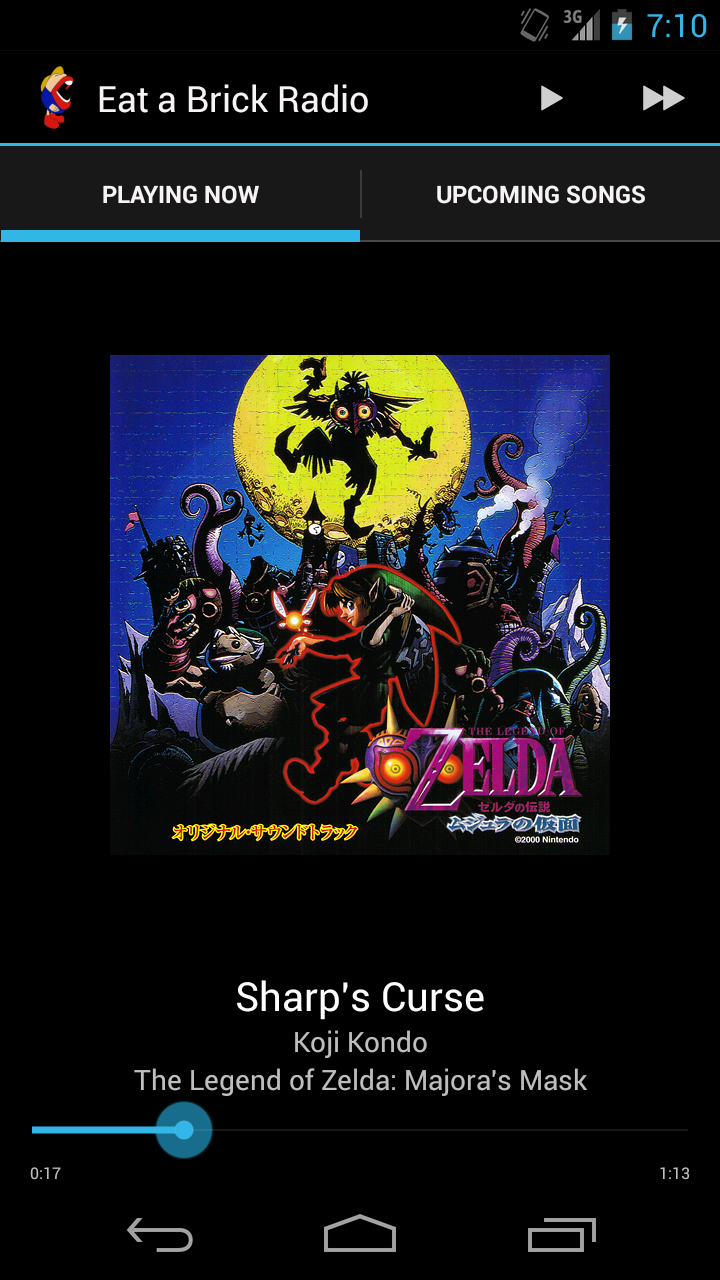
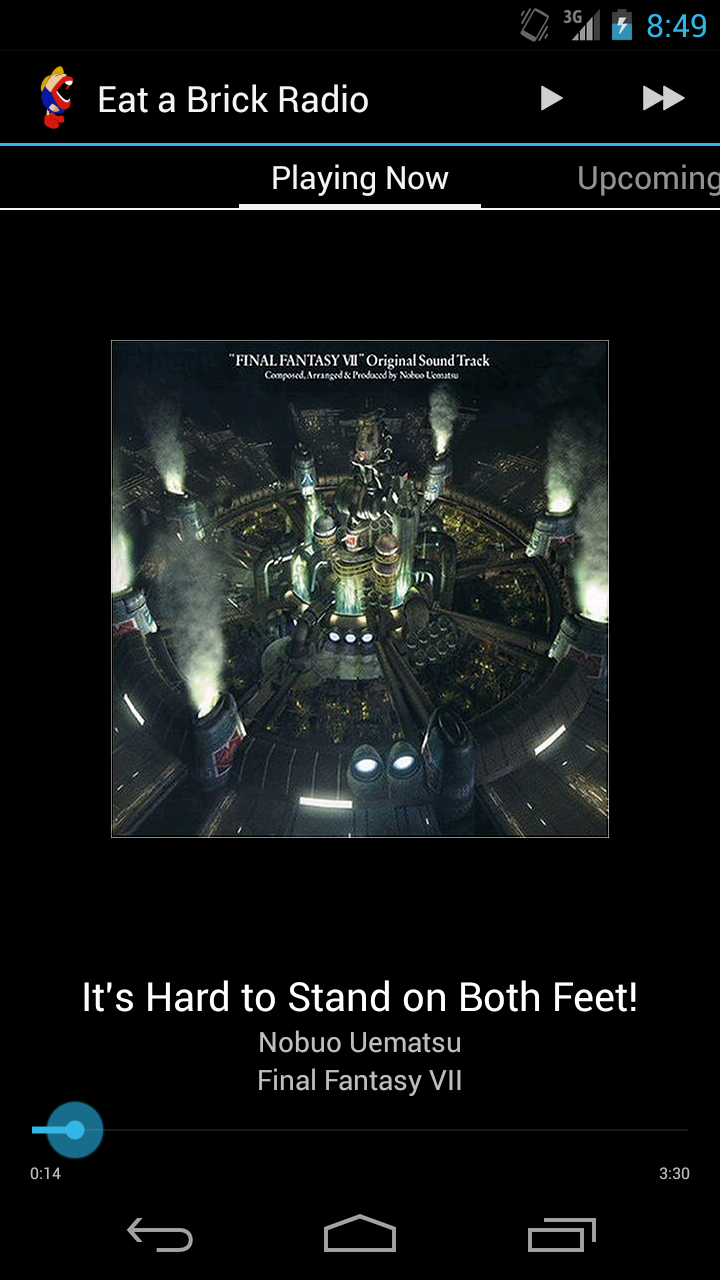
Use swipe thing instead of tabs

diff --git a/src/org/eatabrick/radio/MainActivity.java b/src/org/eatabrick/radio/MainActivity.java
@@ -1,8 +1,5 @@
 package org.eatabrick.radio;
 
-import android.support.v4.app.Fragment;
-import android.support.v4.app.FragmentManager;
-import android.support.v4.app.FragmentTransaction;
 import android.content.ComponentName;
 import android.content.Context;
 import android.content.Intent;
@@ -10,6 +7,10 @@ import android.content.ServiceConnection;
 import android.os.Bundle;
 import android.os.Handler;
 import android.os.IBinder;
+import android.support.v4.app.Fragment;
+import android.support.v4.app.FragmentManager;
+import android.support.v4.app.FragmentTransaction;
+import android.support.v4.view.ViewPager;
 import android.util.Log;
 import com.actionbarsherlock.app.ActionBar;
 import com.actionbarsherlock.app.SherlockFragment;
@@ -18,13 +19,21 @@ import com.actionbarsherlock.view.Menu;
 import com.actionbarsherlock.view.MenuInflater;
 import com.actionbarsherlock.view.MenuItem;
 import java.util.List;
+import java.util.Vector;
 import org.bff.javampd.objects.MPDSong;
 
 public class MainActivity extends SherlockFragmentActivity implements PlayerService.PlayerListener {
   private static final String TAG = "MainActivity";
 
+  public interface UpdateListener {
+    public void onSongUpdate(String title, String artist, String album, int elapsed, int length);
+    public void onPositionUpdate(int elapsed);
+  }
+
   private PlayerService mService;
   private SongListAdapter mAdapter;
+  private PagerAdapter mPagerAdapter;
+  private List<UpdateListener> mListeners;
 
   private ServiceConnection mConnection = new ServiceConnection() {
     public void onServiceConnected(ComponentName className, IBinder binder) {
@@ -32,7 +41,8 @@ public class MainActivity extends SherlockFragmentActivity implements PlayerServ
       mService = ((PlayerService.PlayerBinder) binder).getService();
       mService.addPlayerListener(MainActivity.this);
       invalidateOptionsMenu();
-      requestSongInfo();
+
+      sendSongUpdate(mService.getTitle(), mService.getArtist(), mService.getAlbum(), mService.getElapsed(), mService.getLength());
     }
 
     public void onServiceDisconnected(ComponentName className) {
@@ -46,32 +56,19 @@ public class MainActivity extends SherlockFragmentActivity implements PlayerServ
   @Override public void onCreate(Bundle savedInstanceState) {
     super.onCreate(savedInstanceState);
 
-    getSupportActionBar().setNavigationMode(ActionBar.NAVIGATION_MODE_TABS);
+    setContentView(R.layout.main);
 
-    ActionBar.Tab tab;
 
-    tab = getSupportActionBar().newTab();
-    tab.setText(getString(R.string.tab_now_playing));
-    tab.setTabListener(new TabListener<NowPlayingFragment> (this, "playing", NowPlayingFragment.class));
-    getSupportActionBar().addTab(tab);
+    List<Fragment> fragments = new Vector<Fragment>();
+    fragments.add(Fragment.instantiate(this, NowPlayingFragment.class.getName()));
+    fragments.add(Fragment.instantiate(this, QueueFragment.class.getName()));
 
-    tab = getSupportActionBar().newTab();
-    tab.setText(getString(R.string.tab_play_queue));
-    tab.setTabListener(new TabListener<QueueFragment> (this, "queue", QueueFragment.class));
-    getSupportActionBar().addTab(tab);
+    mPagerAdapter = new PagerAdapter(this, getSupportFragmentManager(), fragments);
 
-    /* not yet implemented
-    tab = getSupportActionBar().newTab();
-    tab.setText(getString(R.string.tab_search));
-    tab.setTabListener(new TabListener<FutureFragment> (this, "search", FutureFragment.class));
-    getSupportActionBar().addTab(tab);
-    */
-
-    if (savedInstanceState != null) {
-      getSupportActionBar().setSelectedNavigationItem(savedInstanceState.getInt("selectedTab"));
-    }
+    ((ViewPager) findViewById(R.id.pager)).setAdapter(mPagerAdapter);
 
     mAdapter = new SongListAdapter(this);
+    mListeners = new Vector<UpdateListener>();
   }
 
   @Override protected void onSaveInstanceState(Bundle outState) {
@@ -130,40 +127,23 @@ public class MainActivity extends SherlockFragmentActivity implements PlayerServ
     return true;
   }
 
-  public void requestSongInfo() {
-    if (mService != null) {
-      NowPlayingFragment playingFragment = (NowPlayingFragment) getSupportFragmentManager().findFragmentByTag("playing");
-      if (playingFragment != null) {
-        playingFragment.updateSongInfo(mService.getTitle(), mService.getArtist(), mService.getAlbum());
-        playingFragment.updateProgress(mService.getElapsed(), mService.getLength());
-      }
-    }
-  }
-
   public void onSongChange(final String title, final String artist, final String album, final int elapsed, final int length) {
-    final NowPlayingFragment playingFragment = (NowPlayingFragment) getSupportFragmentManager().findFragmentByTag("playing");
-    if (playingFragment != null) {
-      runOnUiThread(new Runnable() {
-        public void run() {
-          playingFragment.updateSongInfo(title, artist, album);
-          playingFragment.updateProgress(elapsed, length);
-        }
-      });
-    }
+    runOnUiThread(new Runnable() {
+      public void run() {
+        sendSongUpdate(title, artist, album, elapsed, length);
+      }
+    });
   }
 
   public void onPositionChange(final int elapsed) {
-    final NowPlayingFragment playingFragment = (NowPlayingFragment) getSupportFragmentManager().findFragmentByTag("playing");
-    if (playingFragment != null) {
-      runOnUiThread(new Runnable() {
-        public void run() {
-          playingFragment.updateProgress(elapsed);
-        }
-      });
-    }
+    runOnUiThread(new Runnable() {
+      public void run() {
+        sendPositionUpdate(elapsed);
+      }
+    });
   }
 
-  public void onStatusChange(final boolean playing) {
+  public void onStatusChange(boolean playing) {
     runOnUiThread(new Runnable() {
       public void run() {
         invalidateOptionsMenu();
@@ -188,7 +168,27 @@ public class MainActivity extends SherlockFragmentActivity implements PlayerServ
     return mAdapter;
   }
 
+  public void addUpdateListener(UpdateListener listener) {
+    mListeners.add(listener);
+  }
+
+  public void removeUpdateListener(UpdateListener listener) {
+    mListeners.remove(listener);
+  }
+
   private void setMenuVisible(Menu menu, int menuId, boolean visible) {
     ((MenuItem) menu.findItem(menuId)).setVisible(visible);
+  }
+
+  private void sendSongUpdate(String title, String artist, String album, int elapsed, int length) {
+    for (UpdateListener listener : mListeners) {
+      listener.onSongUpdate(title, artist, album, elapsed, length);
+    }
+  }
+
+  private void sendPositionUpdate(int elapsed) {
+    for (UpdateListener listener : mListeners) {
+      listener.onPositionUpdate(elapsed);
+    }
   }
 }

diff --git a/src/org/eatabrick/radio/NowPlayingFragment.java b/src/org/eatabrick/radio/NowPlayingFragment.java
@@ -29,7 +29,7 @@ import org.xml.sax.SAXException;
 import org.xml.sax.XMLReader;
 import org.xml.sax.helpers.DefaultHandler;
 
-public class NowPlayingFragment extends SherlockFragment {
+public class NowPlayingFragment extends SherlockFragment implements MainActivity.UpdateListener {
   private static final String TAG = "NowPlayingFragment";
 
   private ImageView mArt;
@@ -144,28 +144,33 @@ public class NowPlayingFragment extends SherlockFragment {
     return view;
   }
 
-  @Override public void onActivityCreated(Bundle savedInstanceState) {
-    super.onActivityCreated(savedInstanceState);
+  @Override public void onResume() {
+    super.onResume();
 
-    ((MainActivity) getActivity()).requestSongInfo();
+    ((MainActivity) getActivity()).addUpdateListener(this);
   }
 
-  public void updateSongInfo(String title, String artist, String album) {
+  @Override public void onPause() {
+    super.onPause();
+
+    ((MainActivity) getActivity()).removeUpdateListener(this);
+  }
+
+  public void onSongUpdate(String title, String artist, String album, int elapsed, int length) {
     mTitle.setText(title);
     mArtist.setText(artist);
     mAlbum.setText(album);
 
-    new GetAlbumArtTask().execute(artist, album);
-  }
+    mElapsed.setText(String.format("%d:%02d", elapsed / 60, elapsed % 60));
+    mSeek.setProgress(elapsed);
 
-  public void updateProgress(int elapsed, int length) {
     mLength.setText(String.format("%d:%02d", length / 60, length % 60));
     mSeek.setMax(length);
 
-    updateProgress(elapsed);
+    new GetAlbumArtTask().execute(artist, album);
   }
 
-  public void updateProgress(int elapsed) {
+  public void onPositionUpdate(int elapsed) {
     mElapsed.setText(String.format("%d:%02d", elapsed / 60, elapsed % 60));
     mSeek.setProgress(elapsed);
   }

diff --git a/src/org/eatabrick/radio/PagerAdapter.java b/src/org/eatabrick/radio/PagerAdapter.java
@@ -1,0 +1,41 @@
+package org.eatabrick.radio;
+
+import android.content.Context;
+import android.support.v4.app.Fragment;
+import android.support.v4.app.FragmentManager;
+import android.support.v4.app.FragmentPagerAdapter;
+import android.util.Log;
+import java.util.List;
+
+public class PagerAdapter extends FragmentPagerAdapter {
+  private final static String TAG = "PagerAdapter";
+
+  private Context mContext;
+  private List<Fragment> mFragments;
+
+  public PagerAdapter(Context context, FragmentManager manager, List<Fragment> fragments) {
+    super(manager);
+
+    mContext = context;
+    mFragments = fragments;
+  }
+
+  @Override public Fragment getItem(int position) {
+    return mFragments.get(position);
+  }
+
+  @Override public int getCount() {
+    return mFragments.size();
+  }
+
+  @Override public CharSequence getPageTitle(int position) {
+    switch (position) {
+      case 0:
+        return mContext.getString(R.string.tab_now_playing);
+      case 1:
+        return mContext.getString(R.string.tab_play_queue);
+      default:
+        return "";
+    }
+  }
+}
